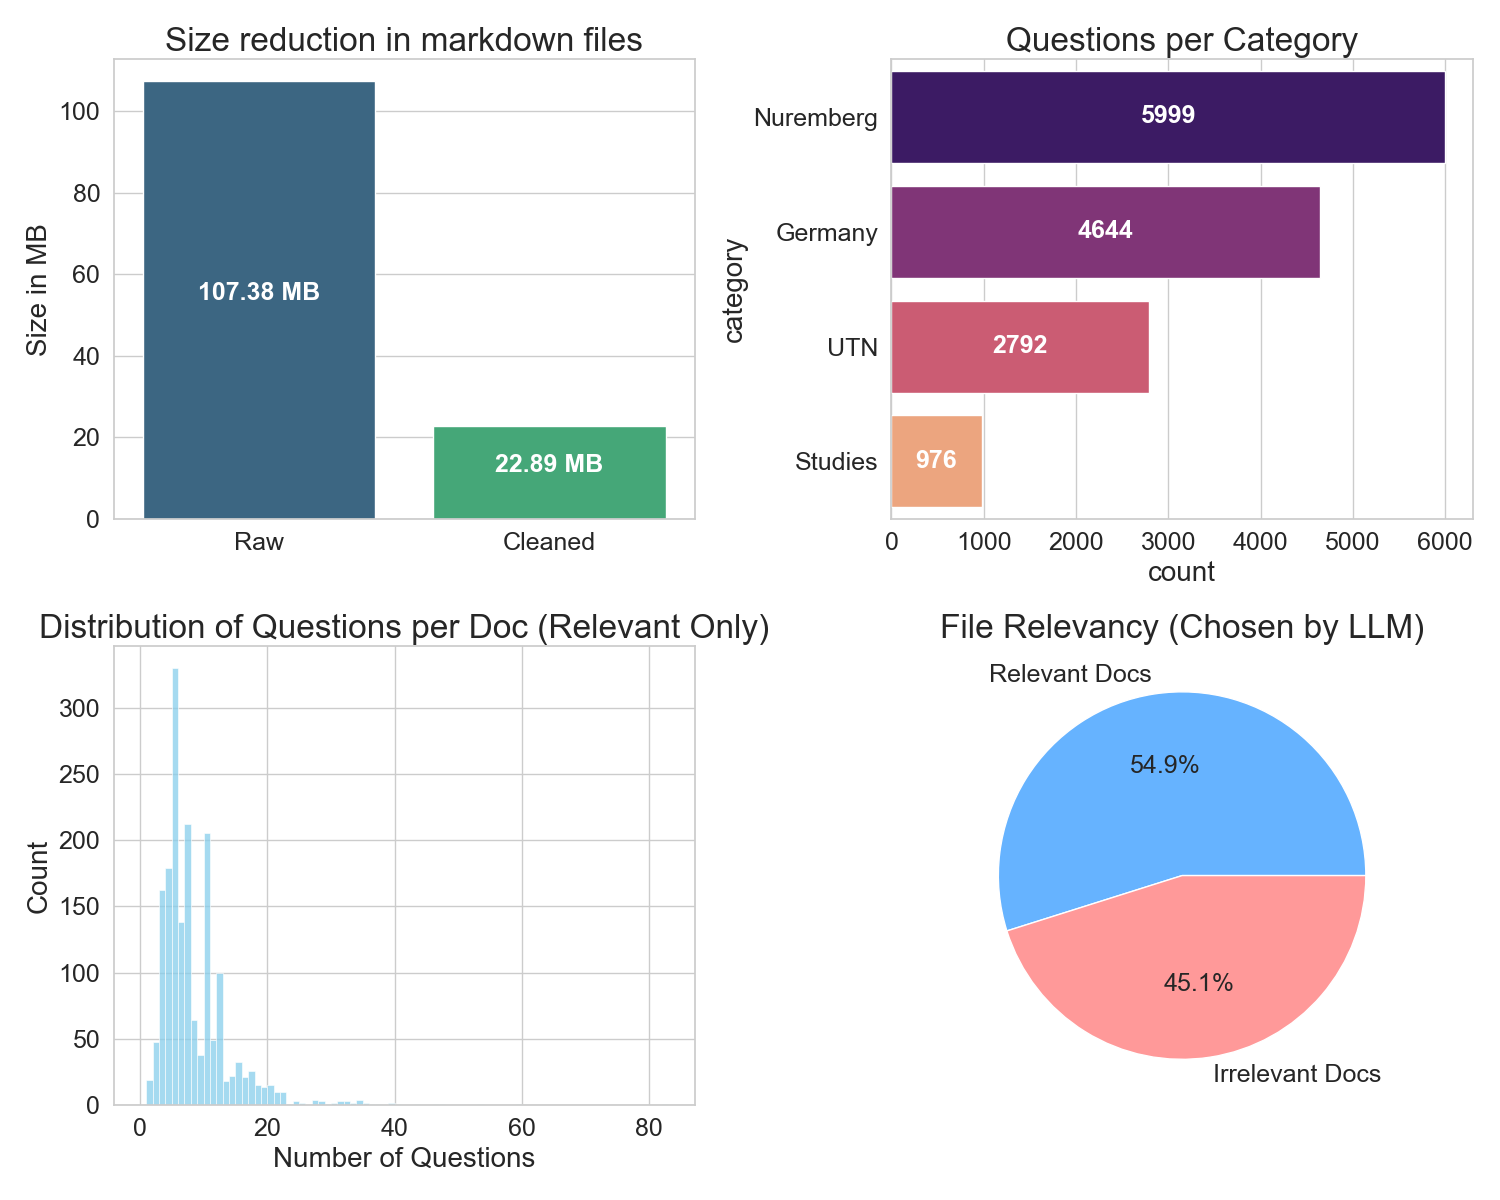
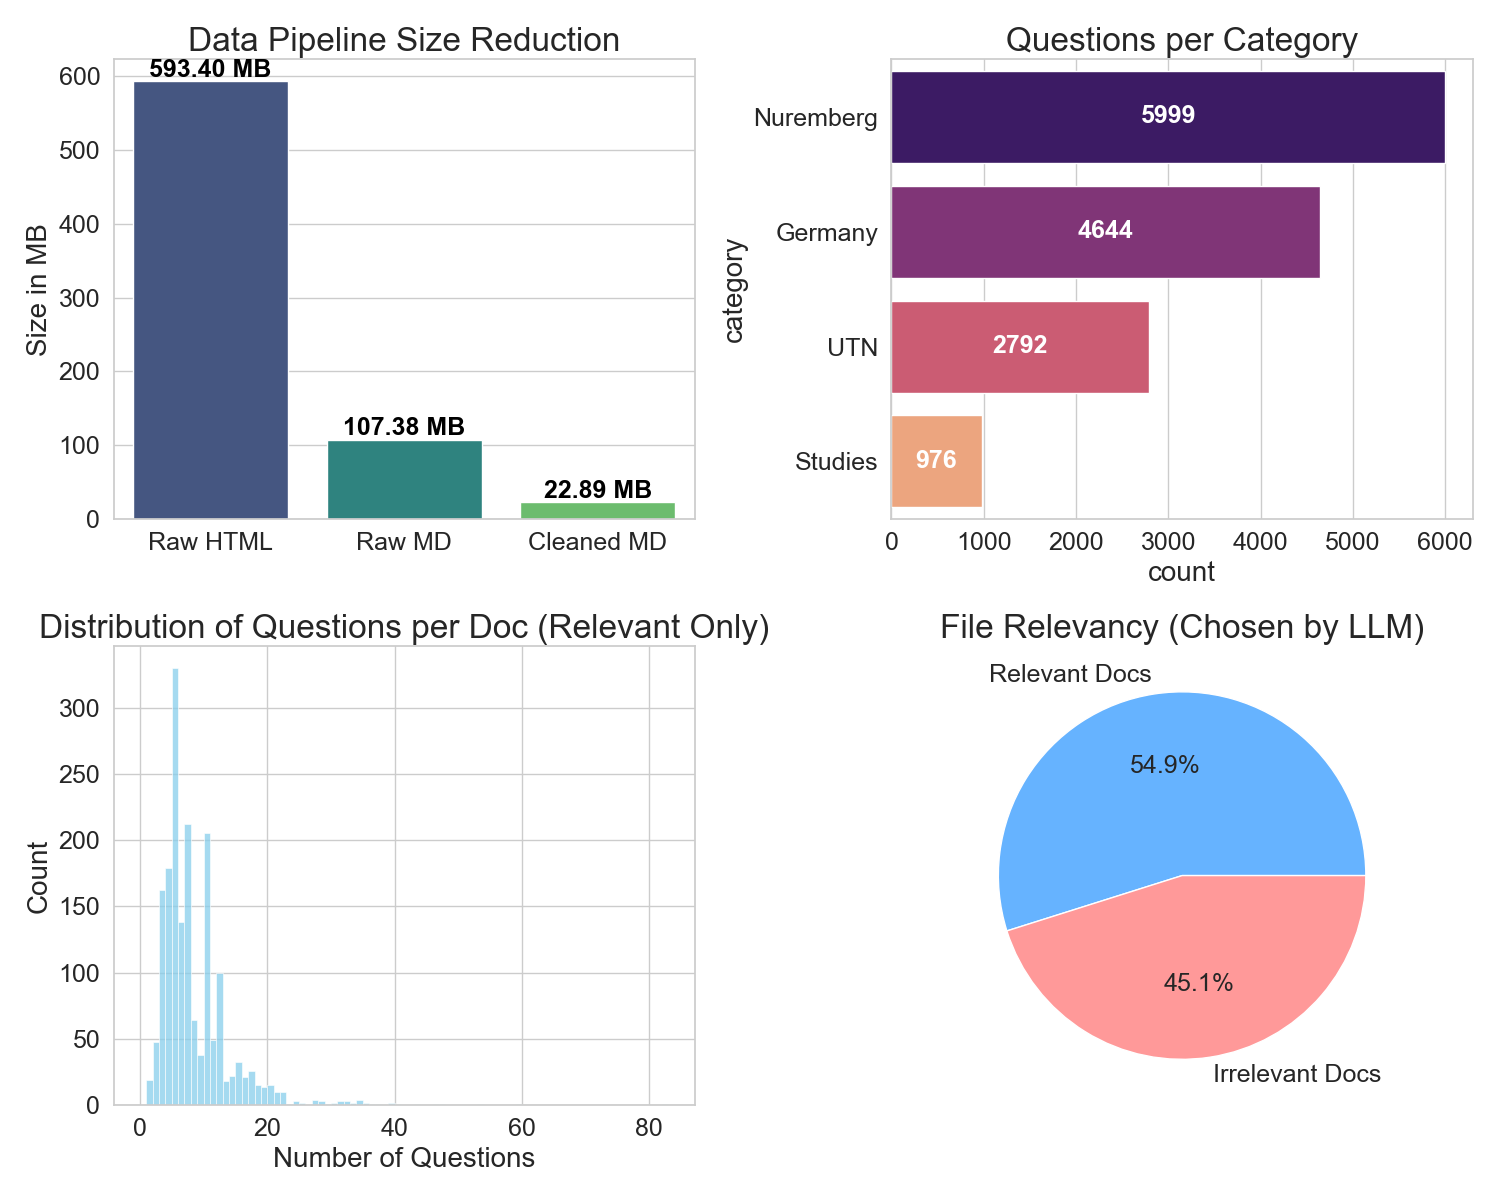
add html comparison

Changed region(s): [[0.0307, 0.0, 0.46, 0.4625]]

diff --git a/data/main.py b/data/main.py
@@ -42,16 +42,18 @@ def analyze_data():
     num_webscraped = len(raw_files)
     num_after_cleaning = len(cleaned_files)
     
+    html_raw_size = 593.4  # Hardcoded as requested
     raw_size = get_dir_size(raw_md_dir) / (1024 * 1024) # MB
     cleaned_size = get_dir_size(cleaned_md_dir) / (1024 * 1024) # MB
-    reduction_pct = (1 - (cleaned_size / raw_size)) * 100 if raw_size > 0 else 0
+    reduction_pct = (1 - (cleaned_size / html_raw_size)) * 100 if html_raw_size > 0 else 0
 
     print(f"--- General Stats ---")
     print(f"Files webscraped: {num_webscraped}")
     print(f"Files after cleaning: {num_after_cleaning}")
-    print(f"Raw data size: {raw_size:.2f} MB")
-    print(f"Cleaned data size: {cleaned_size:.2f} MB")
-    print(f"Size reduction: {reduction_pct:.2f}%")
+    print(f"HTML Raw size: {html_raw_size:.2f} MB")
+    print(f"MD Raw size: {raw_size:.2f} MB")
+    print(f"MD Cleaned size: {cleaned_size:.2f} MB")
+    print(f"Total size reduction: {reduction_pct:.2f}%")
 
     # 2. QnA Analysis
     qna_data = []
@@ -150,13 +152,13 @@ def analyze_data():
 
     # Plot 1: Size Reduction
     plt.subplot(2, 2, 1)
-    sizes = [raw_size, cleaned_size]
-    labels = ['Raw', 'Cleaned']
+    sizes = [html_raw_size, raw_size, cleaned_size]
+    labels = ['Raw HTML', 'Raw MD', 'Cleaned MD']
     ax1 = sns.barplot(x=labels, y=sizes, palette='viridis')
-    # Add labels inside the bars
+    # Add labels above the bars for better visibility
     for i, size in enumerate(sizes):
-        ax1.text(i, size / 2, f'{size:.2f} MB', ha='center', color='white', fontweight='bold')
-    plt.title('Size reduction in markdown files')
+        ax1.text(i, size + (max(sizes) * 0.01), f'{size:.2f} MB', ha='center', color='black', fontweight='bold')
+    plt.title('Data Pipeline Size Reduction')
     plt.ylabel('Size in MB')
 
     # Plot 2: Category Distribution
